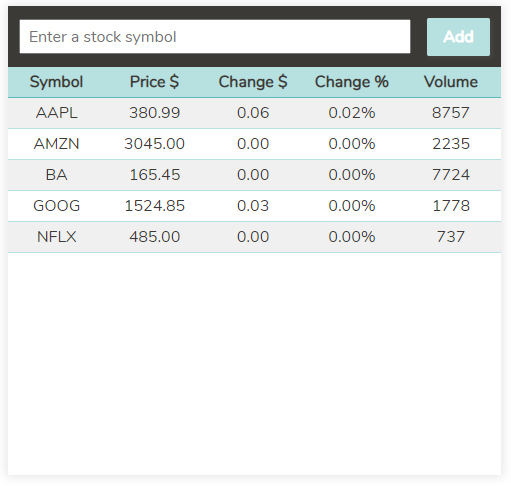
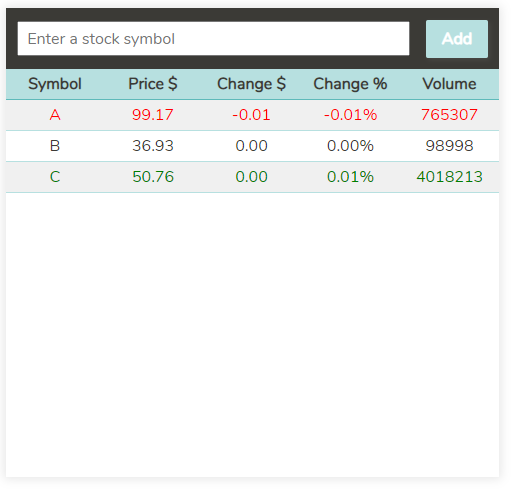
Updated stock watch list files

diff --git a/src/StockWatchListApp/stylesheets/styles.scss b/src/StockWatchListApp/stylesheets/styles.scss
@@ -89,24 +89,24 @@
   .Buttons {
     width: auto;
     margin-left: 1em;
+  }
 
-    // Add button
-    button {
-      font-weight: bold;
-      color: $color-white;
-      background-color: $color-green-light;
-      width: auto;
-      padding: 10px 16px;
-      margin: 0;
-      border: 0;
-      border-radius: 2px;
-      box-shadow: 2px 2px 5px 0 rgba($box-shadow-color, .2);
+  // Add button
+  .Buttons-add {
+    font-weight: bold;
+    color: $color-white;
+    background-color: $color-green-light;
+    width: auto;
+    padding: 10px 16px;
+    margin: 0;
+    border: 0;
+    border-radius: 2px;
+    box-shadow: 2px 2px 5px 0 rgba($box-shadow-color, 0.2);
 
-      &:hover,
-      &:focus {
-        color: $color-black;
-        background-color: $color-green;
-      }
+    &:hover,
+    &:focus {
+      color: $color-black;
+      background-color: $color-green;
     }
   }
 
@@ -152,7 +152,7 @@
     }
   }
 
-  // Table body
+  // Stock watch list table body
   .StockWatchList-tbody {
     // Make tbody element scrollable
     width: 100%;
@@ -163,51 +163,62 @@
     @include mq-lg-up {
       max-height: 448px;
     }
+  }
 
-    tr {
-      border-bottom: 1px solid $color-green-light;
-    }
+  // Stock watch list item
+  .StockWatchListItem {
+    border-bottom: 1px solid $color-green-light;
 
     // Odd contents
-    tr:nth-child(odd) {
+    &:nth-child(odd) {
       background-color: $color-grey-light;
     }
 
     // Even contents
-    tr:nth-child(even) {
+    &:nth-child(even) {
       background-color: $color-white;
     }
 
-    tr:hover {
+    &:hover {
       color: $color-white;
       background-color: $color-grey;
     }
+  }
 
-    td {
-      // Put each column in a row for small screen
-      display: block;
-      text-align: left;
+  // Stock watch list item's categories
+  .StockWatchListItem td {
+    // Put each column in a row for small screen
+    display: block;
+    text-align: left;
 
-      // For mobile, get value of data-th attribute and display its value before the td value
-      &::before {
-        content: attr(data-th) ": ";
-        display: inline-block;
-        width: 6em;
-        text-align: right;
-        font-weight: bold;
-        padding-right: 0.5em;
-      }
-
-      // For med screen & up
-      @include mq-md-up {
-        display: table-cell;
-        text-align: center;
-
-        // Remove data-th values
-        &::before {
-          content: none;
-        }
-      }
+    // For med screen & up, show categories in the same row
+    @include mq-md-up {
+      display: table-cell;
+      text-align: center;
     }
+  }
+
+  // For mobile, get value of 'data-th' attribute (which contains the category header) and display its value before the td value
+  .StockWatchListItem td::before {
+    content: attr(data-th) ": ";
+    display: inline-block;
+    width: 6em;
+    text-align: right;
+    font-weight: bold;
+    padding-right: 0.5em;
+
+    @include mq-md-up {
+      content: none;
+    }
+  }
+
+  // When stock price goes up
+  .StockWatchListItem.priceUp td {
+    color: green;
+  }
+
+  // When stock price goes down
+  .StockWatchListItem.priceDown td {
+    color: red;
   }
 }

diff --git a/src/StockWatchListApp/components/StockWatchListItem.jsx b/src/StockWatchListApp/components/StockWatchListItem.jsx
@@ -8,6 +8,9 @@ const alphaVantage = new AlphaVantage();
 // Create a list item with stock data retrieved from Alpha Vantage
 const StockWatchListItem = ({ symbol, errorRef }) => {
 
+  // Create unique class name for each stock
+  const itemClass = `StockWatchListItem-${symbol}`;
+
   // Set Time Series interval and get Alpha Vantage quote url
   const tsInterval = 1;
   const url = alphaVantage.getTimeSeriesUrl(symbol, tsInterval);
@@ -36,6 +39,9 @@ const StockWatchListItem = ({ symbol, errorRef }) => {
 
     // Update data to display
     const updateData = () => {
+      // Get stock item element
+      const item = document.querySelector(`.${itemClass}`);
+
       const openPrice = Number.parseFloat(timeSeries[index][TIME_SERIES_INTRADAY.OPEN]);
 
       const closePrice = Number.parseFloat(timeSeries[index][TIME_SERIES_INTRADAY.CLOSE]);
@@ -44,6 +50,20 @@ const StockWatchListItem = ({ symbol, errorRef }) => {
 
       const changePercent = (changePrice / openPrice) * 100;
       const volume = Number.parseInt(timeSeries[index][TIME_SERIES_INTRADAY.VOLUME], 10);
+
+      if (changePrice > 0) {
+        // Price went up
+        item && item.classList.add('priceUp');
+        item && item.classList.remove('priceDown');
+      } else if (changePrice < 0) {
+        // Price went down
+        item && item.classList.remove('priceUp');
+        item && item.classList.add('priceDown');
+      } else {
+        // Price stayed the same
+        item && item.classList.remove('priceUp');
+        item && item.classList.remove('priceDown');
+      }
 
       // Update price
       setPrice(closePrice);
@@ -58,7 +78,7 @@ const StockWatchListItem = ({ symbol, errorRef }) => {
       setVolume((vol) => vol + volume);
     };
 
-    const delay = 60000;
+    const delay = 5000;
     let timeoutId = null;
 
     // Use setTimeout instead of setInterval to call function recursively
@@ -86,10 +106,10 @@ const StockWatchListItem = ({ symbol, errorRef }) => {
       index = 0;
       clearTimeout(timeoutId);
     });
-  }, [data]);
+  }, [data, itemClass]);
 
   // Convert string to float and format
-  const formatFloat = (value='0.00') => {
+  const formatFloat = (value = '0.00') => {
     const num = Number.isNaN(Number.parseFloat(value)) ? 0 : Number.parseFloat(value);
 
     return num.toFixed(2);
@@ -110,14 +130,14 @@ const StockWatchListItem = ({ symbol, errorRef }) => {
         <td>--</td>
       </tr>
     ) : (
-      <tr className="StockWatchListItem">
-        <td data-th="Symbol">{symbol}</td>
-        <td data-th="Price $">{formatFloat(price)}</td>
-        <td data-th="Change $">{formatFloat(changePrice)}</td>
-        <td data-th="Change %">{formatFloat(changePercent)}%</td>
-        <td data-th="Volume">{volume}</td>
-      </tr>
-    )
+        <tr className={`StockWatchListItem ${itemClass}`}>
+          <td data-th="Symbol">{symbol}</td>
+          <td data-th="Price $">{formatFloat(price)}</td>
+          <td data-th="Change $">{formatFloat(changePrice)}</td>
+          <td data-th="Change %">{formatFloat(changePercent)}%</td>
+          <td data-th="Volume">{volume}</td>
+        </tr>
+      )
   );
 };
 
